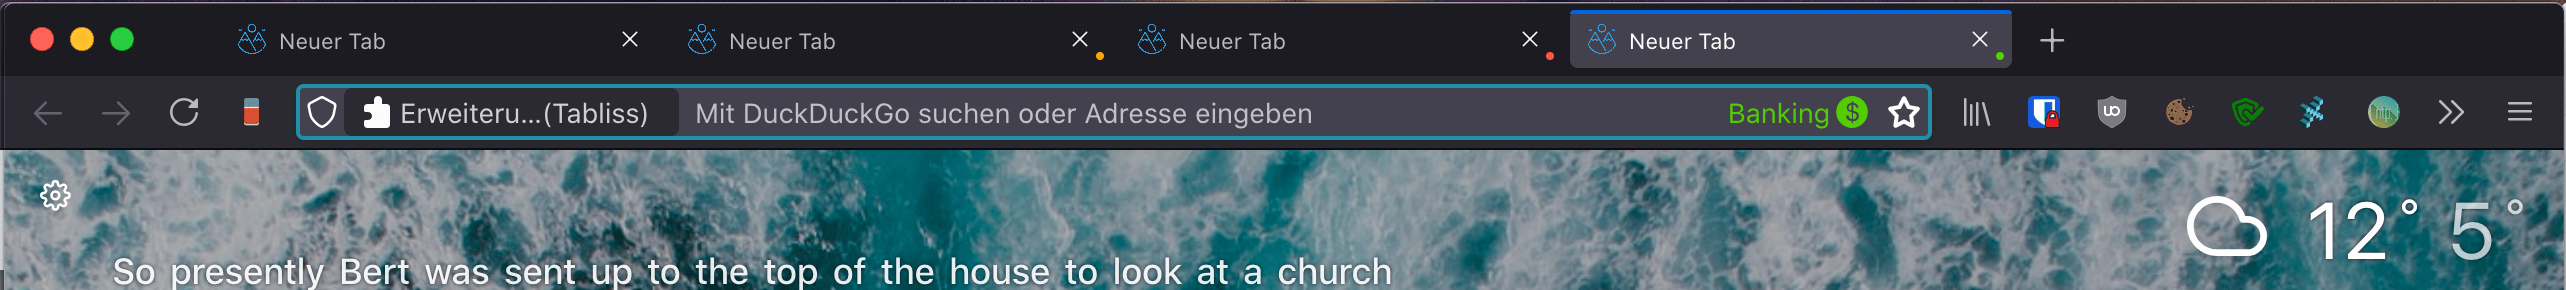
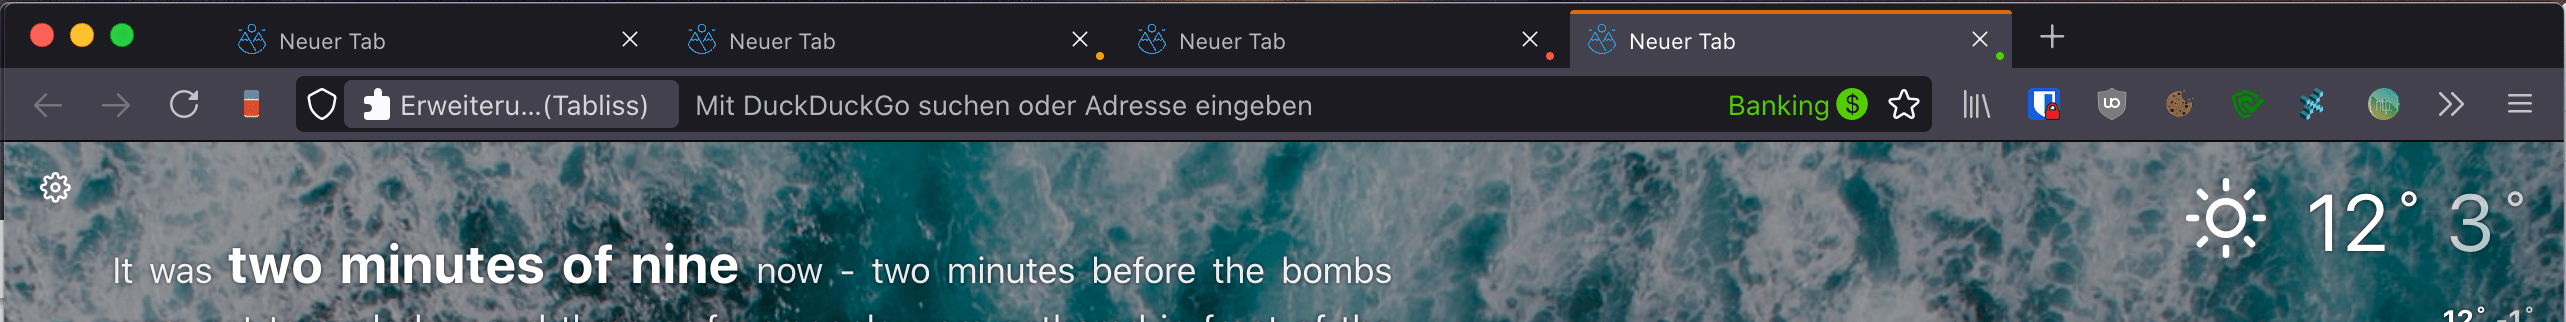
Update screenshot

diff --git a/userChrome.css b/userChrome.css
@@ -12,7 +12,7 @@
 	padding-bottom: var(--proton-tab-block-margin) !important;
 	position: relative;
 }
-/*
+
 .tab-background::after {
 	border-radius: var(--tab-border-radius) var(--tab-border-radius) 0 0;
 	border-top: 2px solid -moz-accent-color;
@@ -29,7 +29,7 @@
 .tab-background[selected="true"]::after {
 	transform: scale(1, 1);
 }
-*/
+
 .tabbrowser-tab[usercontextid] > .tab-stack > .tab-background > .tab-context-line {
 	display: none !important;
 }
